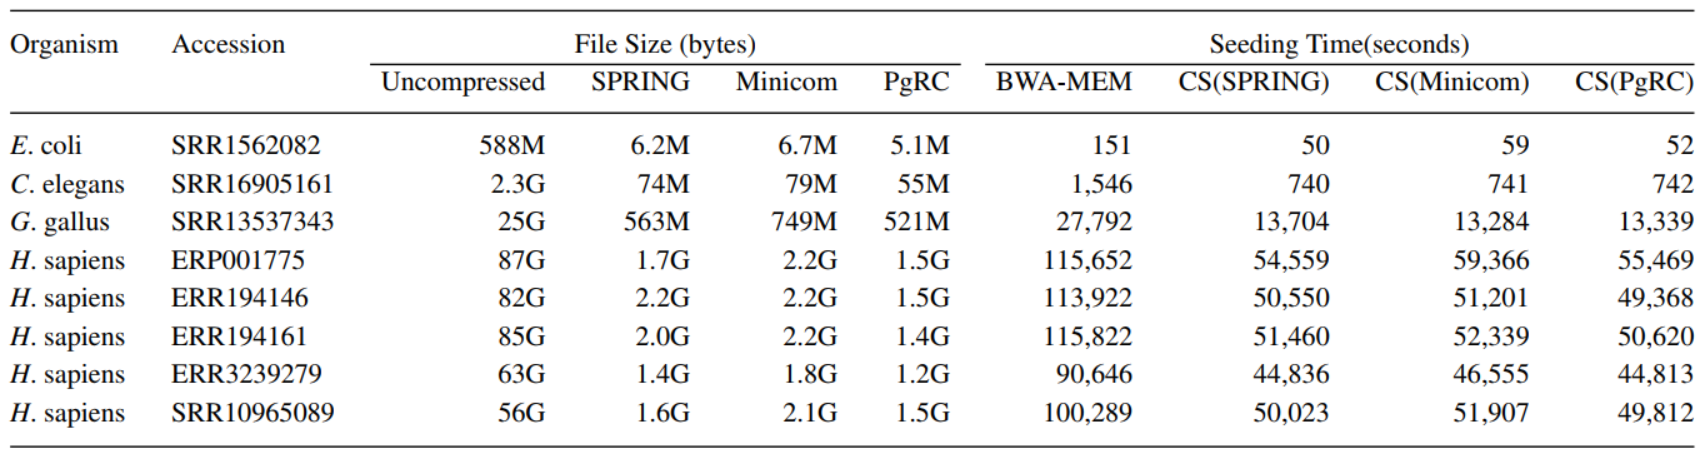
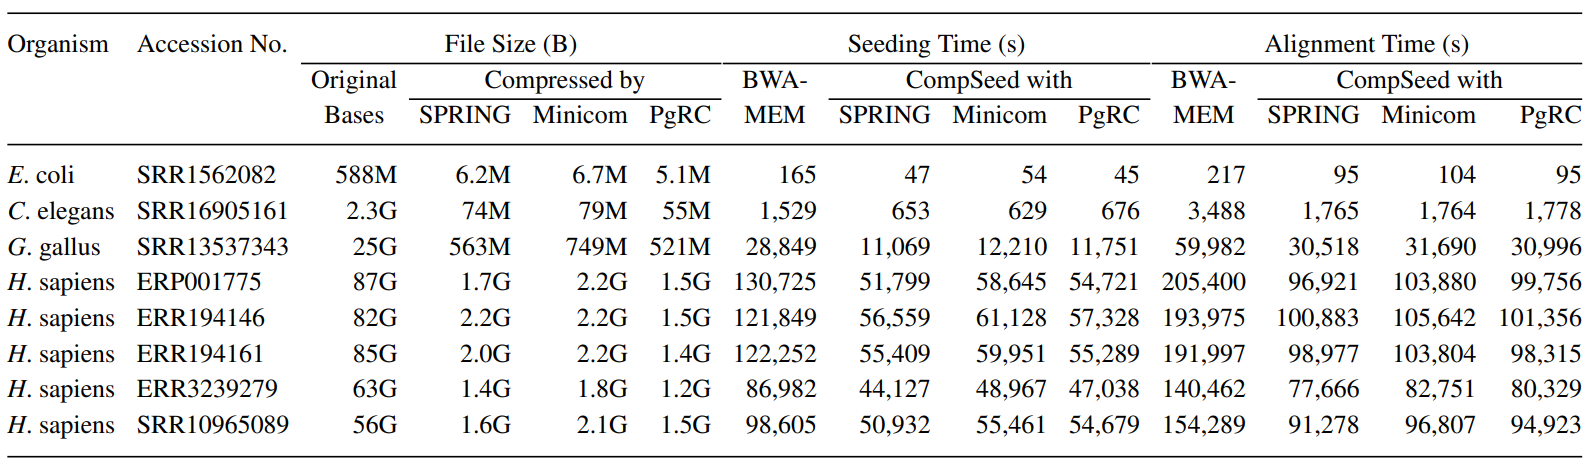
Readme updated (version 1.0.2)

diff --git a/main.cpp b/main.cpp
@@ -214,9 +214,6 @@ void display_profile(const thread_aux_t &t) {
 }
 
 int main(int argc, char *argv[]) {
-#if ((!__AVX512BW__) && (!__AVX2__) && (__SSE2__))
-	fprintf(stderr, "Smith-Waterman in AVX mode\n");
-#endif
 	mem_opt_t *opt, opt0;
 	int fd, fd2, i, c, ignore_alt = 0, no_mt_io = 0;
 	int fixed_chunk_size = -1;
@@ -342,6 +339,16 @@ int main(int argc, char *argv[]) {
 		return 1;
 	}
 
+#if __AVX512BW__
+	fprintf(stderr, "Executing Banded Smith-Waterman in AVX512 mode\n");
+#elif __AVX2__
+	fprintf(stderr, "Executing Banded Smith-Waterman in AVX2 mode\n");
+#elif __AVX__
+	fprintf(stderr, "Executing Banded Smith-Waterman in AVX mode\n");
+#elif __SSE4_2__
+	fprintf(stderr, "Executing Banded Smith-Waterman in SSE4.2 mode\n");
+#endif
+
 	if (rg_line) {
 		hdr_line = bwa_insert_header(rg_line, hdr_line);
 		free(rg_line);
@@ -425,6 +432,7 @@ int main(int argc, char *argv[]) {
 //			opt->flag |= MEM_F_PE;
 //		}
 //	}
+
 	bwa_print_sam_hdr(aux.idx->bns, hdr_line);
 	aux.actual_chunk_size = fixed_chunk_size > 0? fixed_chunk_size : opt->chunk_size * opt->n_threads;
 	kt_pipeline(no_mt_io? 1 : 2, process, &aux, 3);

diff --git a/README.md b/README.md
@@ -15,16 +15,16 @@ cmake ..; make
 ```
 
 If the installation is successful, the build subdirectory will contain the executable files.
- - `bwaidx` to create the FM-index for a reference file.
- - `bwamem_seeding` to run BWA-MEM seeding for sequencing reads.
- - `comp_seeding` to run compressive seeding for reordered reads.
+ - `bwaidx` to create FM-index for a reference file.
+ - `bwamem` to run BWA-MEM (v0.7.17) for sequencing reads.
+ - `CompSeed` to run compressive seeding for reordered reads that generates same seeds and alignments as BWA-MEM.
 
 ## Declaration
 
-CompSeed is an algorithm demonstration for compressive alignment, by far not a standalone tool. It 
+CompSeed is an algorithm demonstration for compressive alignment. It 
 received the reads compressed and reordered by upstream reordering-based compressors, including 
 [SPRING](https://github.com/shubhamchandak94/Spring),  [Minicom](https://github.com/yuansliu/minicom) 
-and [PgRC](https://github.com/kowallus/PgRC). While CompSeed can only support for single-end compression and alignment, 
+and [PgRC](https://github.com/kowallus/PgRC). While CompSeed currently only supporst for single-end compression and alignment, 
 the project of integrating compression and alignment is underway.
 
 ## Example usage
@@ -49,23 +49,19 @@ minicom -d data.mincom -t 16; mv data_dec.reads minicom.reads
 pgrc -t 16 -d data.pgrc; mv data.pgrc_out pgrc.reads
 ```
 
-Run BWA-MEM seeding and record the time.
+Run BWA-MEM.
 ```bash
-/usr/bin/time bwamem_seeding -t 16 hg19 data.fq 
+bwamem -t 16 hg19 data.fq > bwa.sam
 ```
 
-Run CompSeed and record the time.
+Run CompSeed.
 ```bash
-/usr/bin/time comp_seeding -t 16 hg19 spring.reads 
-/usr/bin/time comp_seeding -t 16 hg19 minicom.reads
-/usr/bin/time comp_seeding -t 16 hg19 pgrc.reads
+CompSeed  -t 16 hg19 spring.reads  > css.sam
+CompSeed -t 16 hg19 minicom.reads > csm.sam
+CompSeed -t 16 hg19 pgrc.reads > csp.sam
 ```
 
-Both `bwamem_seeding` and `comp_seeding` have an option `--print` to output seeds in text format to stdout for
-checking the seed identity. But do not turn it on when comparing the speed because the output time significantly degrades
-the benchmarked results.
-
-For `bwamem_seeding` and `comp_seeding`, all the original parameters of BWA-MEM seeding are supported.
+For `CompSeed`, all the original parameters of BWA-MEM seeding are supported.
 ```
     -t  number of threads
     -k  minimum seed length
@@ -76,15 +72,20 @@ For `bwamem_seeding` and `comp_seeding`, all the original parameters of BWA-MEM 
 ```
 
 ## Results
-CompSeed fully utilizes the redundancy information provided from upstream compressors, and avoids ~50% of the redundant
-time-consuming FM-index operations during the BWA-MEM seeding process.
+CompSeed fully utilizes the redundancy information provided from upstream compressors using trie structures, and 
+avoids ~50% of the redundant time-consuming FM-index operations during the BWA-MEM seeding process.
+
+![SST](images/Figure1.jpg)
+
+After combined with AVX instructions for extension stage, a doubled alignment throughput is observed.
 
 ![Seeding time of BWA-MEM and CompSeed](images/Table1.jpg)
 
 It shows enhanced performance as sequencing coverage increases, and it is almost not affected by the re-seeding parameter.
 Moreover, it has substantial memory advantage compared with the existing solutions, because it does not replace or modify 
 the FM-index. All the acceleration benefits from the compression, thus does not conflict with existing hardware-based optimizations.
-![Seeding time of BWA-MEM and CompSeed](images/Figure1.jpg)
+
+![Seeding time of BWA-MEM and CompSeed](images/Figure2.jpg)
 
 ## References
 
